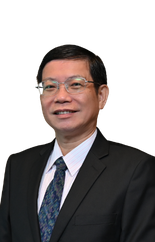
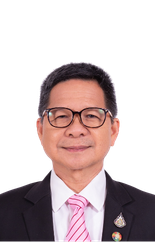
fix: fix agenda text overflow and update en speaker styles/images

diff --git a/en/assets/css/style.css b/en/assets/css/style.css
@@ -412,7 +412,7 @@ section.index .container {
   }
 }
 section.index .container > div {
-  width: 50%;
+  width: 46%;
   margin-left: auto;
   display: flex;
   flex-direction: column;
@@ -429,20 +429,20 @@ section.index .logo {
   width: 50%;
 }
 section.index .hero-title-1 {
-  width: 100%;
-  margin-top: 50px;
+  width: 90%;
+  margin-top: 30px;
   /* margin-left: -3%; */
 }
 @media (max-width: 768px) {
   section.index .hero-title-1 {
     margin-top: 50px;
     margin-left: 0;
-    width: 100%;
-    /* margin-left: -5%; */
+    width: 110%;
+    margin-left: -5%;
   }
 }
 section.index .hero-title-hr {
-  margin-top: 50px;
+  margin-top: 30px;
   width: 100%;
 }
 section.index .hero-title-2 {
@@ -463,7 +463,7 @@ section.index .hero-title-2 {
 }
 section.index .hero-title-3 {
   width: 83%;
-  margin-top: 50px;
+  margin-top: 30px;
 }
 @media (max-width: 768px) {
   section.index .hero-title-3 {
@@ -471,7 +471,7 @@ section.index .hero-title-3 {
   }
 }
 section.index .hero-title-4 {
-  width: 80%;
+  width: 100%;
   margin-top: 36px;
 }
 
@@ -529,7 +529,7 @@ section.foreword .item h3 {
 }
 @media (max-width: 991px) {
   section.foreword .item h3 {
-    font-size: 16px;
+    font-size: 20px;
   }
 }
 section.foreword .item .line {
@@ -553,7 +553,8 @@ section.foreword .item p {
 }
 @media (max-width: 991px) {
   section.foreword .item p {
-    font-size: 15px;
+    font-size: 18px;
+    font-weight: 400;
   }
 }
 section.foreword .item p strong {
@@ -630,7 +631,7 @@ section.highlights .highlight-card .card-label {
   display: inline-block;
   border-radius: 4px;
   padding: 4px 10px;
-  font-size: 32px;
+  font-size: 36px;
   position: absolute;
   top: -20px;
   left: 26px;
@@ -647,7 +648,7 @@ section.highlights .highlight-card .card-label {
   }
 }
 section.highlights .highlight-card h3 {
-  font-size: 24px;
+  font-size: 28px;
   font-weight: 700;
   color: #fff;
   line-height: 45px;
@@ -655,15 +656,17 @@ section.highlights .highlight-card h3 {
 }
 @media (max-width: 991px) {
   section.highlights .highlight-card h3 {
-    font-size: 20px;
+    font-size: 25px;
+     line-height: 40px;
   }
 }
 section.highlights .highlight-card p {
   margin-top: 18px;
-  font-size: 20px;
+  font-size: 22px;
   color: rgb(255, 255, 255);
-  line-height: 28px;
+  line-height: 38px;
   text-align: left;
+  font-weight: 300;
 }
 section.highlights .highlight-card .num {
   font-family: "Electrolize", sans-serif;
@@ -802,12 +805,28 @@ section.speakers .speaker-slide h3::after {
   transform: translate(-50%, -50%);
   z-index: -1;
 }
+section.speakers .speaker-slide h3.point::after {
+  content: "";
+  position: absolute;
+  background: url("./../image/speaker-name-bg-color.png");
+  background-size: cover;
+  background-repeat: no-repeat;
+  width: 130px;
+  height: 63px;
+  top: 50%;
+  left: 50%;
+  transform: translate(-50%, -50%);
+  z-index: -1;
+}
 section.speakers .speaker-slide .title {
   font-size: 20px;
   color: #fff;
   line-height: 34px;
   position: relative;
   z-index: 1;
+}
+section.speakers .speaker-slide .title.point{
+  color: #75ccf3;
 }
 section.speakers .speaker-slide .title p {
   margin-top: 10px;
@@ -990,6 +1009,7 @@ section.agenda .content {
   flex-direction: column;
   align-items: flex-start;
   gap: 16px;
+  min-width: 0;
 }
 section.agenda .talk-label {
   font-weight: 700;
@@ -1017,7 +1037,11 @@ section.agenda .speaker {
   letter-spacing: 0.2em;
   color: #ffffff;
   text-align: left;
-  white-space: nowrap;
+  white-space: normal;
+  word-break: break-word;
+}
+section.agenda .speaker.point {
+  color: #81C6B6;
 }
 @media (max-width: 991px) {
   section.agenda .speaker {
@@ -1904,8 +1928,6 @@ footer .footer-org-logo-3 img {
   pointer-events: none;
   transform: translateY(8px);
   transition: opacity 0.3s, transform 0.3s;
-  text-align: center;
-  line-height: 1.2;
 }
 .fixed-register-btn.visible {
   opacity: 1;

diff --git a/en/index.html b/en/index.html
@@ -286,9 +286,9 @@
                         <div class="avatar">
                             <img src="./assets/image/speaker-2.png" alt="" />
                         </div>
-                        <h3>Dr. Marc<p>Succi</p>
+                        <h3 class="point">Dr. Marc<p>Succi</p>
                         </h3>
-                        <div class="title">
+                        <div class="title point">
                             <p>Founder & Executive Director, Mass General Brigham MESH Incubator and Associate Professor of Radiology, Harvard Medical School</p>
                         </div>
                     </div>
@@ -296,9 +296,9 @@
                         <div class="avatar">
                             <img src="./assets/image/speaker-3.png" alt="" />
                         </div>
-                        <h3>Jan Beger</p>
+                        <h3 class="point">Jan Beger</p>
                         </h3>
-                        <div class="title">
+                        <div class="title point">
                             <p>President,</p>
                             <p>GE Global Head of AI Advocacy</p>
                         </div>
@@ -458,7 +458,7 @@
                     <div class="content">
                         <span class="talk-label" data-aos="fade-up" data-aos-offset="100">Keynote 1</span>
                         <p class="talk-title" data-aos="fade-up" data-aos-offset="100">AI and the Future of Medicine: Accelerating Innovation,<br> Translation, and Care Impact</p>
-						<p class="speaker" data-aos="fade-up" data-aos-offset="100">Dr. Marc Succi｜Founder & Executive Director, <br>Mass General Brigham MESH Incubator Associate Professor of Radiology, <br>Harvard Medical School</p>
+						<p class="speaker point" data-aos="fade-up" data-aos-offset="100">Dr. Marc Succi｜Founder & Executive Director, <br>Mass General Brigham MESH Incubator Associate Professor of Radiology, <br>Harvard Medical School</p>
 
                     </div>
                 </li>
@@ -469,7 +469,7 @@
                     <div class="content">
                         <span class="talk-label" data-aos="fade-up" data-aos-offset="100">Keynote 2</span>
                         <p class="talk-title" data-aos="fade-up" data-aos-offset="100">Advancing AI-Enabled Clinical Applications: From Imaging to Real-World Healthcare Impact</p>
-                        <p class="speaker" data-aos="fade-up" data-aos-offset="100">Jan Beger｜GE Global Head of AI Advocacy</p>
+                        <p class="speaker point" data-aos="fade-up" data-aos-offset="100">Jan Beger｜GE Global Head of AI Advocacy</p>
                     </div>
                 </li>
 